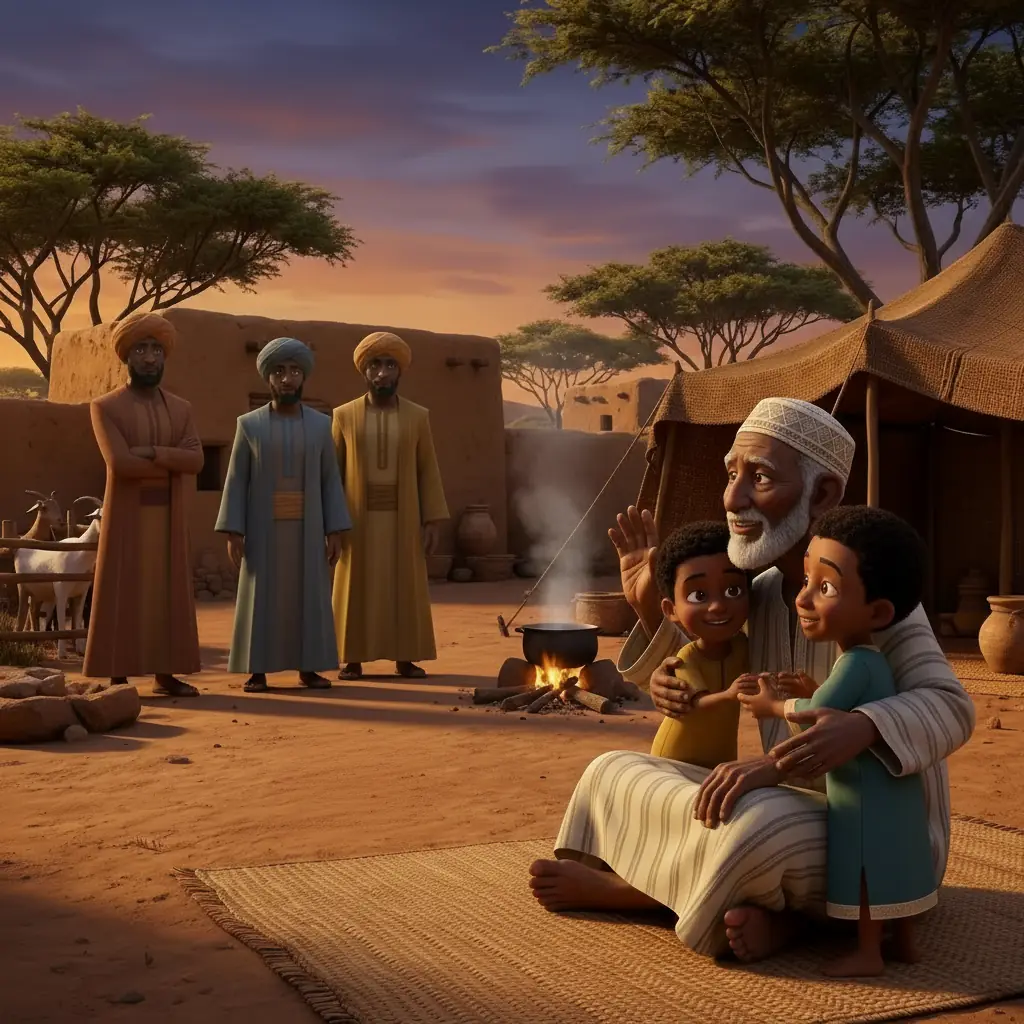
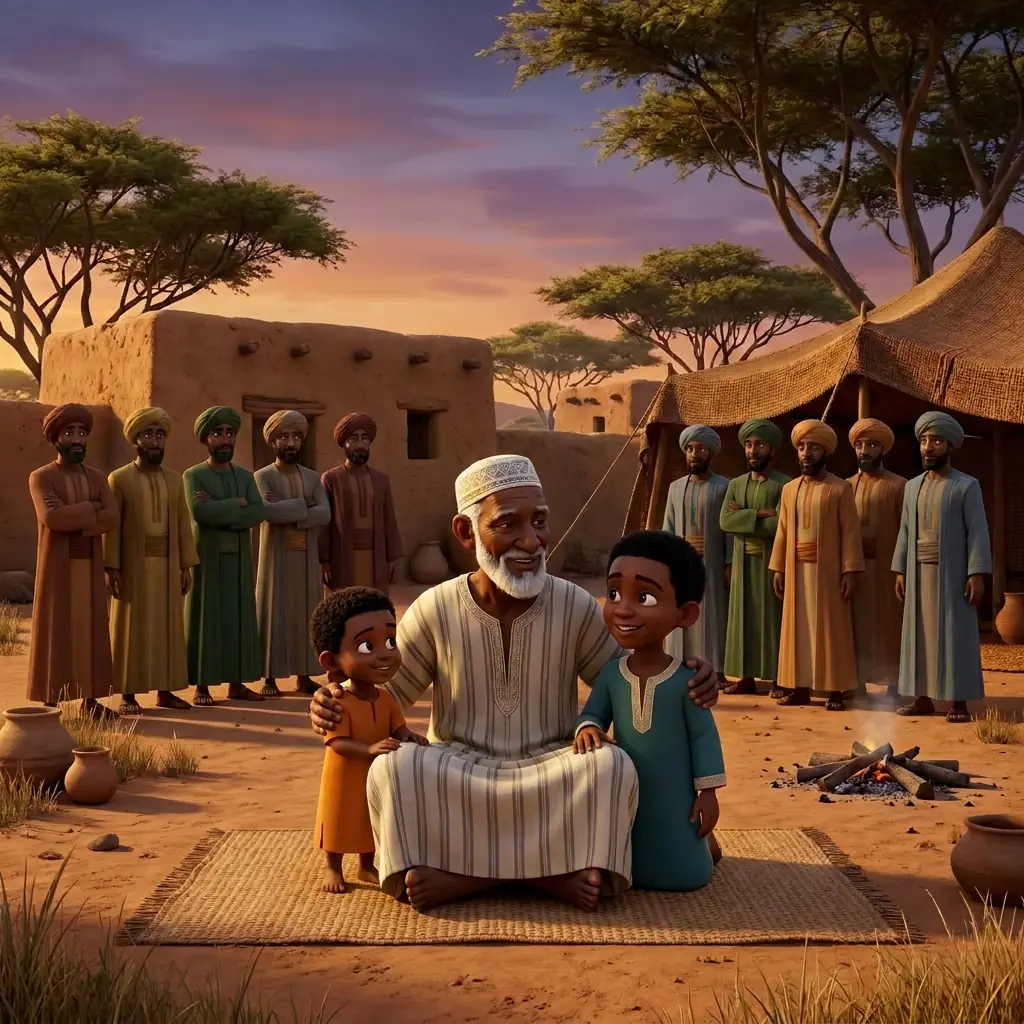
Yusuf: the brothers' number right in 24 of 26 pictures
Claude-Session: https://claude.ai/code/session_01VazqGUVW5qSa7c4cUyb2ov

diff --git a/sw.js b/sw.js
@@ -20,7 +20,7 @@
 
 // BEGIN GENERATED
 const RELEASE = "2026.11.15";
-const BUILD = "eb5fac9f2008";
+const BUILD = "1091d762f735";
 const SHELL = [
   "./",
   "app.webmanifest",
@@ -1055,36 +1055,36 @@ const MEDIA = {
   "games/yusuf/assets/img/c1-b.webp": "3c4dd77e3e",
   "games/yusuf/assets/img/c10-a.webp": "1417596b91",
   "games/yusuf/assets/img/c10-b.webp": "144c185d05",
-  "games/yusuf/assets/img/c10-c.webp": "bae740daa0",
-  "games/yusuf/assets/img/c10-g.webp": "d3d1107d0c",
+  "games/yusuf/assets/img/c10-c.webp": "0b1c8ab61d",
+  "games/yusuf/assets/img/c10-g.webp": "df47c330b2",
   "games/yusuf/assets/img/c10-h.webp": "890651f098",
-  "games/yusuf/assets/img/c10-h0.webp": "66d41ad5ec",
-  "games/yusuf/assets/img/c10-l1.webp": "11a48b7dbc",
-  "games/yusuf/assets/img/c10-l2.webp": "9cb1ab33ba",
+  "games/yusuf/assets/img/c10-h0.webp": "2c32933e60",
+  "games/yusuf/assets/img/c10-l1.webp": "68006b46b6",
+  "games/yusuf/assets/img/c10-l2.webp": "fffdf66836",
   "games/yusuf/assets/img/c11-a.webp": "365fd5f102",
-  "games/yusuf/assets/img/c11-b.webp": "5ac086a799",
-  "games/yusuf/assets/img/c11-c.webp": "7eb6ed50d4",
-  "games/yusuf/assets/img/c11-c0.webp": "d4bfc41e1d",
-  "games/yusuf/assets/img/c11-d.webp": "a507932342",
-  "games/yusuf/assets/img/c11-e.webp": "0ba6ec7851",
-  "games/yusuf/assets/img/c11-v.webp": "0299712b56",
-  "games/yusuf/assets/img/c11-v0.webp": "84e12efcff",
-  "games/yusuf/assets/img/c12-a.webp": "c72f78dbe8",
+  "games/yusuf/assets/img/c11-b.webp": "7cae4b03ec",
+  "games/yusuf/assets/img/c11-c.webp": "fd7632c90b",
+  "games/yusuf/assets/img/c11-c0.webp": "3ef2dc90b9",
+  "games/yusuf/assets/img/c11-d.webp": "0d53de744c",
+  "games/yusuf/assets/img/c11-e.webp": "876b223229",
+  "games/yusuf/assets/img/c11-v.webp": "a0dbad9a95",
+  "games/yusuf/assets/img/c11-v0.webp": "eba5cce940",
+  "games/yusuf/assets/img/c12-a.webp": "bb706a1a5e",
   "games/yusuf/assets/img/c12-b.webp": "748c832026",
   "games/yusuf/assets/img/c12-c.webp": "5e8b072059",
   "games/yusuf/assets/img/c13-a.webp": "b9e2a43e8e",
-  "games/yusuf/assets/img/c13-b.webp": "b309474f15",
+  "games/yusuf/assets/img/c13-b.webp": "4f657f7147",
   "games/yusuf/assets/img/c13-b0.webp": "c876c37c7a",
   "games/yusuf/assets/img/c13-c.webp": "b810059cdf",
-  "games/yusuf/assets/img/c2-0.webp": "bfd95cf5c3",
-  "games/yusuf/assets/img/c2-a.webp": "6dbcd3e2e2",
-  "games/yusuf/assets/img/c2-a0.webp": "374279f075",
-  "games/yusuf/assets/img/c2-b.webp": "27fff5147b",
-  "games/yusuf/assets/img/c2-c.webp": "3918d3a4e4",
+  "games/yusuf/assets/img/c2-0.webp": "988a8569ab",
+  "games/yusuf/assets/img/c2-a.webp": "90584a31b0",
+  "games/yusuf/assets/img/c2-a0.webp": "8cc7a11dfa",
+  "games/yusuf/assets/img/c2-b.webp": "1da7adceea",
+  "games/yusuf/assets/img/c2-c.webp": "69f99fc9f3",
   "games/yusuf/assets/img/c2-d.webp": "a8b70eb066",
-  "games/yusuf/assets/img/c2-p1.webp": "b2a4782e1d",
+  "games/yusuf/assets/img/c2-p1.webp": "f7f36f9c6f",
   "games/yusuf/assets/img/c2-p2.webp": "3c1f646ab7",
-  "games/yusuf/assets/img/c2-p3.webp": "d11e6daeb3",
+  "games/yusuf/assets/img/c2-p3.webp": "0ff072ddb7",
   "games/yusuf/assets/img/c2-s.webp": "a796ff1ce3",
   "games/yusuf/assets/img/c2-w.webp": "35c239642c",
   "games/yusuf/assets/img/c3-a.webp": "78f8f03eec",
@@ -1113,9 +1113,9 @@ const MEDIA = {
   "games/yusuf/assets/img/c8-b.webp": "f7c9b58ffd",
   "games/yusuf/assets/img/c8-c.webp": "ab5df9a7cc",
   "games/yusuf/assets/img/c9-0.webp": "9717d802cd",
-  "games/yusuf/assets/img/c9-a.webp": "18c7f01d26",
-  "games/yusuf/assets/img/c9-b.webp": "2a51fef58c",
-  "games/yusuf/assets/img/c9-c.webp": "aeb191b874",
+  "games/yusuf/assets/img/c9-a.webp": "8cdb98c42a",
+  "games/yusuf/assets/img/c9-b.webp": "741117749d",
+  "games/yusuf/assets/img/c9-c.webp": "ab0265f667",
   "games/yusuf/assets/img/p-b1.webp": "4ba1a67614",
   "games/yusuf/assets/img/p-b2.webp": "7f21d2ee64",
   "games/yusuf/assets/img/p-b3.webp": "0b5ef55af3",
